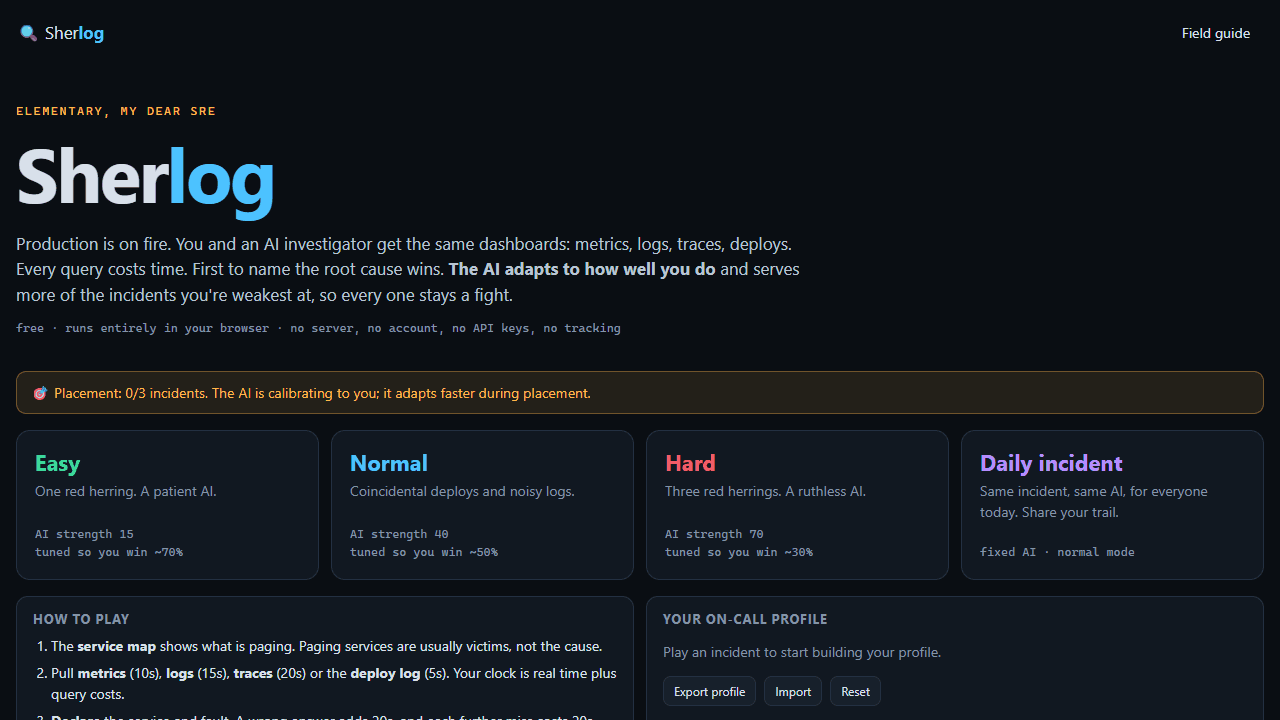
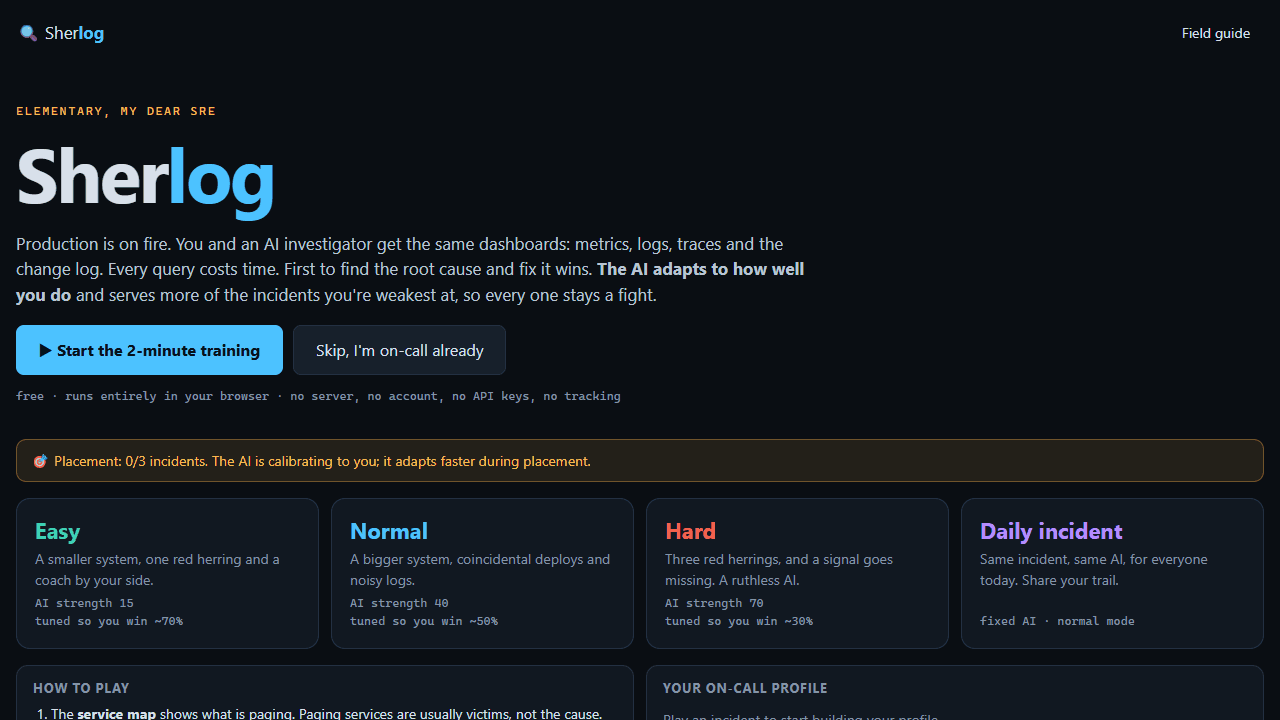
Refresh docs, diagram and screenshots for the incident lifecycle
Document the 12 fault types, the mitigation step, training, coach and
hints, the AI's stopping rule and a real investigation trace. Show the
fix in the field guide. Re-record the demo and screenshots.

diff --git a/src/ui/FieldGuide.tsx b/src/ui/FieldGuide.tsx
@@ -1,5 +1,6 @@
 import { COST, WRONG_PENALTY } from '../sim/constants';
 import { FAULTS, FAULT_IDS } from '../sim/faults';
+import { FIXES, FIX_FOR } from '../sim/fixes';
 import { Modal } from './Modal';
 
 export function FieldGuide({ onClose }: { onClose: () => void }) {
@@ -28,6 +29,7 @@ export function FieldGuide({ onClose }: { onClose: () => void }) {
                   ))}
                 </ul>
                 <p className="tip">💡 {d.tip}</p>
+                {FIX_FOR[f] && <p className="muted">🔧 Fix: {FIXES[FIX_FOR[f].fix]}</p>}
               </section>
             );
           })}

diff --git a/src/styles.css b/src/styles.css
@@ -1006,7 +1006,8 @@ h3 {
 .map-strip .service-map {
   width: 100%;
   height: auto;
-  max-height: 236px;
+  /* Leave room for the dashboards on short windows. */
+  max-height: min(236px, 27vh);
 }
 .hint-inline {
   flex: 1;

diff --git a/HOW-IT-WORKS.md b/HOW-IT-WORKS.md
@@ -27,36 +27,39 @@ A lot of tools sold as "AIOps" are scripts: *if the health check fails, restart 
 
 Everything below comes from one seed, through a seeded PRNG (`mulberry32`), so the same seed always gives the same incident.
 
-- **Random:** the service graph (7 to 12 services), the culprit and fault type (6 types, only on services where they can happen), metric baselines and noise, log lines, trace timings, deploy times, and which red herrings appear (1, 2 or 3 depending on mode).
+- **Random:** the service graph (9 to 12 services), the culprit and fault type (12 types, only on services where they can happen), metric baselines and noise, log lines, trace timings, deploy and config-change times, and which red herrings appear (1, 2 or 3 depending on mode).
 - **Written by people:** the symptom table per fault, in [`src/sim/faults.ts`](src/sim/faults.ts), and how symptoms spread up the call graph.
 - **The daily** uses the date as its seed, so everyone gets the same incident. Anyone can compute the answer from the source, like Wordle's word list. Sherlog is practice, not a competition.
 
 ## How the AI reasons
 
-1. **Hypotheses.** Every (service, fault) pair that could physically exist: between 13 and 26 per incident.
+1. **Hypotheses.** Every (service, fault) pair that could physically exist: between 29 and 47 per incident.
 2. **Predict.** For each one, look up what it would look like on every dashboard.
 3. **Update.** Naive Bayes: each observed symptom reweights every hypothesis. It assumes dashboards can mislead (a fixed 10% miss rate and 15% false-alarm rate), so no single signal is proof.
 4. **Choose the next probe.** For each unopened dashboard, compute the expected drop in uncertainty (information gain) and divide by its time cost. Sample from a softmax over those scores; its temperature is a difficulty knob.
-5. **Declare** once the top hypothesis passes a confidence threshold. A wrong declaration costs +20 s, then +40 s, +60 s: the same rule you play by.
+5. **Declare** once the top hypothesis passes a confidence threshold, or sooner when no remaining dashboard is worth its time cost (a bad deploy and a bad flag, for example, can't always be told apart with certainty). A wrong declaration costs +20 s, then +40 s, +60 s: the same rule you play by.
+6. **Fix.** After the diagnosis it applies the mitigation, from the same fix table you choose from.
 
 One strength dial sets how fast it thinks, how sloppy its probe choice is, how often it picks an unfocused probe and how sure it must be. Above 1.0 only its speed keeps rising. The reasoning is greedy one-step information gain on a naive-Bayes model, which is good but not optimal.
 
 ## A real investigation
 
-This is the actual output of the shipped AI at Normal strength on seed 21 (a retry storm in `checkout`, with routine retries in `billing` as a red herring). The postmortem screen shows this same panel after every match.
+This is the actual output of the shipped AI at Normal strength on seed 229: a retry storm in `cart`, with routine retries in `reviews` as a red herring. The postmortem screen shows this same trace after every match, plus a chart of how sure the AI was of the right answer at each step.
 
 | Step | What the AI did | Its top suspects afterwards |
 |---|---|---|
-| Start | Reads the 5 paging alerts | Retry storm @ pricing, checkout, billing: about 20% each |
-| 1 | Opens `logs:billing` | Retry storm @ billing **73%** (it found retries: the red herring) |
-| 2 | Opens `traces:edge-gateway` | billing 75% (a wasted probe) |
-| 3 | Opens `logs:pricing` | billing **84%** |
-| 4 | Declares billing | **Wrong, +20 s.** Now checkout 89% |
-| 5 | Declares checkout | Correct. MTTR 4:22 |
+| Start | Reads the 4 paging alerts | Retry storm @ reviews, catalog, cart: 15% each |
+| 1 to 3 | Opens `metrics:postgres-main`, `metrics:redis-sessions`, `logs:events-queue` | About 33% each: three probes that taught it little |
+| 4 | Opens `logs:reviews` | Retry storm @ reviews **75%** (it found retries: the red herring) |
+| 5 to 6 | Opens `logs:redis-sessions`, `traces:invoice-worker` | reviews 75%: nothing new |
+| 7 | Opens `metrics:cart` | reviews **86%**, cart 14% |
+| 8 | Declares reviews | **Wrong, +20 s.** Now cart 99% |
+| 9 | Declares cart | Correct |
+| 10 | Applies the fix: revert the retries and add backoff | MTTR 8:04 |
 
-It was fooled by the red herring, paid for it, and recovered. At strength 1.0 on the same incident it avoids the trap: six probes, then the correct declaration at 98%, with no wrong guess. A script that matches "retries in the logs" would have stopped at step 1.
+It wandered, was fooled by the red herring, paid for it, recovered and fixed the problem. A script that matches "retries in the logs" would have stopped at step 4.
 
-To reproduce: `simulateAi(generateIncident({ seed: 21, mode: 'normal', fault: 'retry_storm' }), 0.4)`.
+To reproduce: `simulateAi(generateIncident({ seed: 229, mode: 'normal' }), 0.4)`.
 
 ## Can the AI cheat?
 
@@ -67,7 +70,8 @@ It cannot read the hidden answer. The AI is constructed from a `PlayerView` (the
 Being straight about this is the point of the page:
 
 - **The race is a replay.** The AI's whole run is computed when the match starts and replayed against the clock. It does not react to your moves. That is what makes the daily identical for everyone and the postmortem possible. It is a ghost race, not a live opponent.
-- **Difficulty is mostly speed and focus.** At the default strengths the AI almost never guesses wrong. A "weak" AI is slow and unfocused, not mistaken. Modes also differ in red herrings (1, 2, 3), which slow the AI very little.
+- **Difficulty is mostly speed and focus.** At the default strengths the AI almost never guesses wrong. A "weak" AI is slow and unfocused, not mistaken. Modes also differ in system size (Easy is smaller, Hard is bigger), in red herrings (1, 2, 3) and in Hard mode losing one signal on the culprit; none of that slows the AI much.
+- **The AI knows the fix table too.** After diagnosing it always picks the right mitigation, because it shares that table. Only you pay for wrong fixes.
 - **The AI shares the simulator's symptom table.** A skeptic can fairly call it "Bayesian inference over the generator's own table". That is accurate. The reasoning (evidence weighting, probe choice, stopping rule) is the AI's; the knowledge it reasons over is the textbook.
 - **"Adding a fault needs no AI code"** is tested (`tests/unseen-fault.test.ts`), but the test hands the AI the new fault's symptoms. It shows the reasoning generalises to a new table, not that the AI discovers failure types.
 - **It adapts to how well you do, not how you debug.** After each match it moves one strength number toward your mode's target win rate (Easy 70%, Normal 50%, Hard 30%) and tracks a win record per fault type to pick your next incident (Thompson sampling). It does not model your habits, such as which dashboard you open first.
@@ -77,7 +81,7 @@ Being straight about this is the point of the page:
 
 ## Guessing does not pay
 
-A player who never opens a dashboard and just guesses used to beat the Normal AI 44% of the time. Each wrong guess now costs 20 s more than the last, which cut that to about 20% while leaving skilled play almost untouched (`tests/ai.test.ts`, "guessing does not pay").
+A player who never opens a dashboard and just guesses used to beat the Normal AI 44% of the time. Each wrong guess now costs 20 s more than the last, and with 29 to 47 candidates a blind guesser beats it about 13% of the time, while skilled play is almost untouched (`tests/ai.test.ts`, "guessing does not pay"). Picking the wrong fix is penalised the same way.
 
 ## A litmus test for "AIOps" claims
 

diff --git a/README.md b/README.md
@@ -2,7 +2,7 @@
 
 # 🔍 Sherlog
 
-**An on-call detective game. Production is on fire: race an AI to the root cause.**
+**An on-call detective game. Production is on fire: race an AI to the root cause, then fix it.**
 
 ### [▶ Play now at sherlog-five.vercel.app](https://sherlog-five.vercel.app/)
 
@@ -16,14 +16,18 @@ free · runs entirely in your browser · no account · no API keys · no LLM
 
 </div>
 
-You get paged: latency is burning the SLO. You and an AI investigator see **the same dashboards**: a service map, metrics, logs, traces and a deploy log. Every query costs time. The first to name the **root cause** (the service *and* the fault) wins. Then a postmortem replays your path next to the AI's reasoning.
+You get paged: latency is burning the SLO. You and an AI investigator see **the same dashboards**: a service map, metrics, logs, traces and a change log. Every query costs time. The first to name the **root cause** (the service *and* the fault) and **choose the fix** wins. Then a postmortem replays your path next to the AI's reasoning.
 
 | | | |
 |:---:|:---:|:---:|
-| ![Investigating a cache with metrics](docs/screens/match.png) | ![The expanded service map](docs/screens/expanded.png) | ![The postmortem with the AI's reasoning](docs/screens/postmortem.png) |
-| Investigate | Read the topology | Compare with the AI |
+| ![Investigating a slow third-party API](docs/screens/match.png) | ![Choosing the fix after the diagnosis](docs/screens/fix.png) | ![The postmortem with the AI's belief and reasoning](docs/screens/postmortem.png) |
+| Investigate | Choose the fix | Compare with the AI |
 
 Incidents are generated from a seed (random service graph, culprit, noise and red herrings), so there is always a new one, plus a **daily** that is the same for everyone.
+
+- **12 kinds of failure**, from memory leaks and retry storms to expired certificates, full disks and stuck queue consumers. Some page nobody at all.
+- **Diagnose, then fix.** Pick the mitigation that actually stops the bleeding; the postmortem explains why the tempting ones don't work.
+- **Built to be learned from.** A 2-minute guided training, an optional coach that explains what each signal usually means, and hints that cost time.
 
 ## Is the AI real?
 
@@ -39,12 +43,12 @@ It is also honest about its limits: it shares the simulator's symptom table (wri
 
 | Mode | Target | Notes |
 |---|---|---|
-| Easy | you win ~70% | 1 red herring |
-| Normal | you win ~50% | 2 red herrings, coincidental deploys |
-| Hard | you win ~30% | 3 red herrings |
+| Easy | you win ~70% | smaller system, 1 red herring, coach on |
+| Normal | you win ~50% | 2 red herrings, coincidental deploys and config changes |
+| Hard | you win ~30% | bigger system, 3 red herrings, one signal on the culprit goes missing |
 | Daily | fixed AI | same incident and AI for everyone, with a streak |
 
-Metrics cost 10 s, logs 15 s, traces 20 s, deploys 5 s. A wrong answer costs 20 s, then 40 s, then 60 s, so guessing does not pay. After each match the AI's strength moves toward your target win rate, and you see more of the incident types you are weakest at. The targets are tuned on simulated players so far, so real-player feedback is welcome.
+Metrics cost 10 s, logs 15 s, traces 20 s, the change log 5 s and a hint 15 s. A wrong answer or a wrong fix costs 20 s, then 40 s, then 60 s, so guessing does not pay. After each match the AI's strength moves toward your target win rate, and you see more of the incident types you are weakest at. The targets are tuned on simulated players so far, so real-player feedback is welcome.
 
 ## Your profile and daily streaks
 
@@ -69,12 +73,12 @@ npm run dev
 
 PRs are welcome: fork, branch, open a PR. `main` is protected, CI must pass and every PR is reviewed, with a Vercel preview so reviewers can play your change. Read **[CONTRIBUTING.md](CONTRIBUTING.md)** first.
 
-The best contribution is a **new fault type**: one entry in [`src/sim/faults.ts`](src/sim/faults.ts) (where it can happen, its symptoms, a postmortem story). Ideas: certificate expiry, disk full, clock skew, thread-pool exhaustion, a bad feature flag, Kafka consumer lag.
+The best contribution is a **new fault type**: an entry in [`src/sim/faults.ts`](src/sim/faults.ts) (where it can happen, its symptoms, a postmortem story) and one in [`src/sim/fixes.ts`](src/sim/fixes.ts) (the right mitigation and why the tempting ones fail). Ideas: clock skew, noisy neighbour, a partial availability-zone failure, autoscaling lag, a hot shard.
 
 ## Roadmap
 
 - [ ] Debugging-style insights: which dashboards you open first, and when you declare too early
-- [ ] More fault types and multi-fault incidents
+- [ ] Multi-fault incidents and more fault types
 - [ ] Installable PWA that works offline
 - [ ] An optional local-LLM coach for the postmortem (off by default; the game stays LLM-free)
 

diff --git a/CHANGELOG.md b/CHANGELOG.md
@@ -4,6 +4,20 @@ All notable changes to Sherlog are documented here. The format follows [Keep a C
 
 ## [Unreleased]
 
+### Added
+
+- **Six new fault types** (12 in all): thread pool exhaustion, slow third-party API, certificate expiry, disk full, stuck queue consumer (a poison message) and a bad config or feature flag. They add disk and consumer-lag metrics, TLS, disk, config and poison-message log signals, and config flips in the change log. Some of them page nobody.
+- **A mitigation step.** After the diagnosis, choose the fix that stops the bleeding. A wrong fix costs time, the AI applies the fix too, and the postmortem explains the right one.
+- **Guided 2-minute training**, an optional **coach** that explains what each signal usually means (it reads only what you have opened), and **hints** that cost 15 s.
+- Pages now show SLO and error-budget numbers. Charts show values on hover with a shared crosshair and time axes, logs highlight the filter, and keyboard shortcuts switch dashboards.
+- The postmortem charts how sure the AI was of the right answer after each step.
+
+### Changed
+
+- The service map is a full-width strip, readable without expanding it.
+- Every system now has a queue and a worker. Easy systems are smaller, Hard systems are bigger and lose one signal on the culprit, so the three modes differ by more than AI speed.
+- The AI treats a deploy and a config change as different evidence and commits when no remaining dashboard is worth its time cost.
+
 ## [1.1.0] - 2026-10-31
 
 Daily streaks, fairer rules, a visible AI reasoning trace, and claims that match what the game does.

diff --git a/CONTRIBUTING.md b/CONTRIBUTING.md
@@ -19,7 +19,7 @@ Thanks for helping make on-call less scary. Sherlog is maintained by [@maheedhar
 
 ## What we'd love
 
-- **New fault types.** One entry in [`src/sim/faults.ts`](src/sim/faults.ts): valid targets, symptoms per channel, the postmortem story and a tip. The test suite automatically checks that it renders, is detected and is solvable. Ideas: certificate expiry, disk full, clock skew, thread-pool exhaustion, a bad feature flag, Kafka consumer lag.
+- **New fault types.** An entry in [`src/sim/faults.ts`](src/sim/faults.ts) (valid targets, symptoms per channel, the postmortem story and a tip) and one in [`src/sim/fixes.ts`](src/sim/fixes.ts) (the right mitigation and why the tempting ones fail). A new kind of signal also needs a renderer and a detector in `src/sim/render.ts` and `src/sim/detect.ts`. The tests automatically check that it renders, is detected, is solvable and has a fix. Ideas: clock skew, noisy neighbour, a partial availability-zone failure, autoscaling lag, a hot shard, multi-fault incidents.
 - **Better signals.** More realistic log lines, trace attributes or metric shapes.
 - **Accessibility and mobile improvements.**
 - **Bug reports with a seed.** The `INC-xxxxx` number in the match header reproduces the incident.
